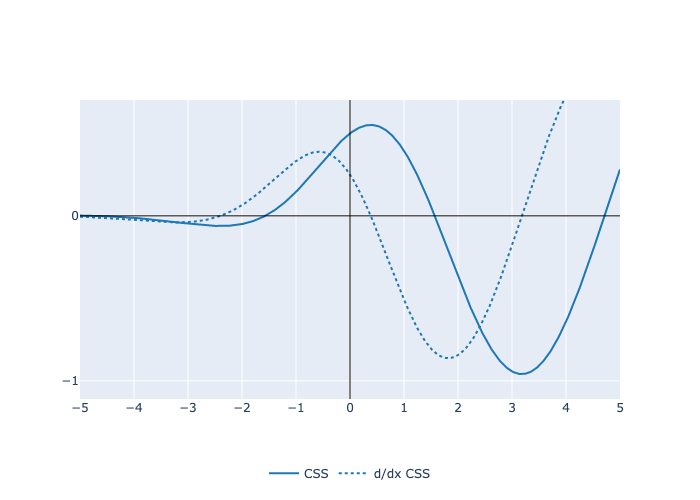
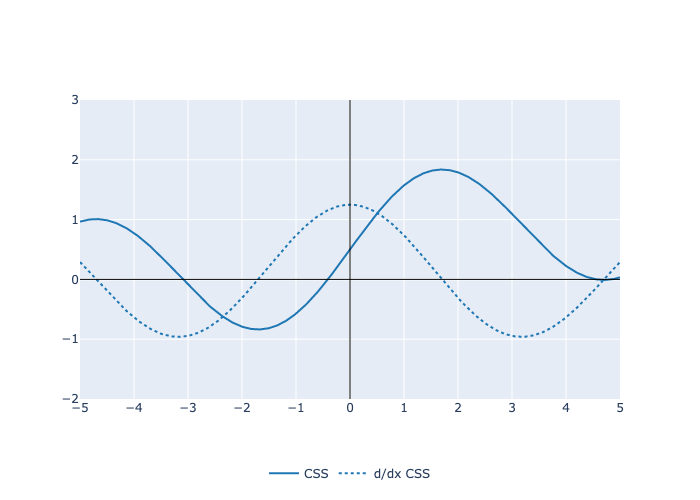
fix: align Sincos, CSS, Expcos with paper definitions
Sincos: a*sin(bx)+c*cos(dx) with learnable a,b,c,d
CSS: a*sin(bx)+c*sigmoid(dx) with learnable a,b,c,d
Expcos: exp(-ax^2)*cos(bx) with learnable a,b

Update tests and regenerate plots for all three.

diff --git a/torch_activation/classical/learnable.py b/torch_activation/classical/learnable.py
@@ -593,7 +593,15 @@ class Sincos(BaseActivation):
     r"""
     Applies the Sincos activation function:
 
-    :math:`\text{Sincos}(x) = \sin(x) + \cos(x)`
+    :math:`\text{Sincos}(x) = a \sin(bx) + c \cos(dx)`
+
+    where :math:`a`, :math:`b`, :math:`c`, :math:`d` are learnable parameters.
+
+    Args:
+        a (float, optional): Scale for sine term. Default: ``1.0``
+        b (float, optional): Frequency for sine term. Default: ``1.0``
+        c (float, optional): Scale for cosine term. Default: ``1.0``
+        d (float, optional): Frequency for cosine term. Default: ``1.0``
 
     Shape:
         - Input: :math:`(*)`, where :math:`*` means any number of dimensions.
@@ -608,13 +616,21 @@ class Sincos(BaseActivation):
         >>> m = torch_activation.Sincos()
         >>> x = torch.randn(2)
         >>> output = m(x)
+
+        >>> m = torch_activation.Sincos(a=0.5, b=2.0, c=0.5, d=2.0)
+        >>> x = torch.randn(2)
+        >>> output = m(x)
     """
 
-    def __init__(self, **kwargs):
+    def __init__(self, a: float = 1.0, b: float = 1.0, c: float = 1.0, d: float = 1.0, **kwargs):
         super().__init__(**kwargs)
+        self.a = nn.Parameter(torch.tensor(a))
+        self.b = nn.Parameter(torch.tensor(b))
+        self.c = nn.Parameter(torch.tensor(c))
+        self.d = nn.Parameter(torch.tensor(d))
 
     def _forward(self, x) -> Tensor:
-        return torch.sin(x) + torch.cos(x)
+        return self.a * torch.sin(self.b * x) + self.c * torch.cos(self.d * x)
 
 
 @register_activation
@@ -622,9 +638,16 @@ class CSS(BaseActivation):
     r"""
     Applies the Cosine-Sigmoid Shift (CSS) activation function:
 
-    :math:`\text{CSS}(x) = \sigma(x) \cdot \cos(x)`
+    :math:`\text{CSS}(x) = a \sin(bx) + c \sigma(dx)`
 
-    where :math:`\sigma(x)` is the sigmoid function.
+    where :math:`\sigma` is the sigmoid function and :math:`a`, :math:`b`, :math:`c`, :math:`d`
+    are learnable parameters.
+
+    Args:
+        a (float, optional): Scale for sine term. Default: ``1.0``
+        b (float, optional): Frequency for sine term. Default: ``1.0``
+        c (float, optional): Scale for sigmoid term. Default: ``1.0``
+        d (float, optional): Scale for sigmoid input. Default: ``1.0``
 
     Shape:
         - Input: :math:`(*)`, where :math:`*` means any number of dimensions.
@@ -639,13 +662,21 @@ class CSS(BaseActivation):
         >>> m = torch_activation.CSS()
         >>> x = torch.randn(2)
         >>> output = m(x)
+
+        >>> m = torch_activation.CSS(a=2.0, b=1.0, c=1.0, d=0.5)
+        >>> x = torch.randn(2)
+        >>> output = m(x)
     """
 
-    def __init__(self, **kwargs):
+    def __init__(self, a: float = 1.0, b: float = 1.0, c: float = 1.0, d: float = 1.0, **kwargs):
         super().__init__(**kwargs)
+        self.a = nn.Parameter(torch.tensor(a))
+        self.b = nn.Parameter(torch.tensor(b))
+        self.c = nn.Parameter(torch.tensor(c))
+        self.d = nn.Parameter(torch.tensor(d))
 
     def _forward(self, x) -> Tensor:
-        return torch.sigmoid(x) * torch.cos(x)
+        return self.a * torch.sin(self.b * x) + self.c * torch.sigmoid(self.d * x)
 
 
 @register_activation
@@ -686,7 +717,13 @@ class Expcos(BaseActivation):
     r"""
     Applies the Expcos activation function:
 
-    :math:`\text{Expcos}(x) = \exp(\cos(x))`
+    :math:`\text{Expcos}(x) = \exp(-ax^2) \cos(bx)`
+
+    where :math:`a` and :math:`b` are learnable parameters.
+
+    Args:
+        a (float, optional): Decay rate. Default: ``1.0``
+        b (float, optional): Frequency. Default: ``1.0``
 
     Shape:
         - Input: :math:`(*)`, where :math:`*` means any number of dimensions.
@@ -701,13 +738,19 @@ class Expcos(BaseActivation):
         >>> m = torch_activation.Expcos()
         >>> x = torch.randn(2)
         >>> output = m(x)
+
+        >>> m = torch_activation.Expcos(a=0.5, b=2.0)
+        >>> x = torch.randn(2)
+        >>> output = m(x)
     """
 
-    def __init__(self, **kwargs):
+    def __init__(self, a: float = 1.0, b: float = 1.0, **kwargs):
         super().__init__(**kwargs)
+        self.a = nn.Parameter(torch.tensor(a))
+        self.b = nn.Parameter(torch.tensor(b))
 
     def _forward(self, x) -> Tensor:
-        return torch.exp(torch.cos(x))
+        return torch.exp(-self.a * x**2) * torch.cos(self.b * x)
 
 
 @register_activation

diff --git a/test/test_expcos.py b/test/test_expcos.py
@@ -10,7 +10,7 @@ ACTIVATION_NAME = "Expcos"
 
 
 def scalar_ref(x: float) -> float:
-    return math.exp(math.cos(x))
+    return math.exp(-x * x) * math.cos(x)
 
 
 def _get_module(**kwargs):
@@ -54,10 +54,6 @@ class TestNumerical:
         out = m(x)
         assert torch.allclose(out, torch.full((8,), scalar_ref(0.0)), atol=1e-6)
 
-    def test_always_positive(self):
-        m = _get_module()
-        x = torch.randn(100)
-        assert (m(x) > 0).all()
 
 
 class TestGradients:

diff --git a/test/test_css.py b/test/test_css.py
@@ -10,7 +10,7 @@ ACTIVATION_NAME = "CSS"
 
 
 def scalar_ref(x: float) -> float:
-    return (1.0 / (1.0 + math.exp(-x))) * math.cos(x)
+    return math.sin(x) + 1.0 / (1.0 + math.exp(-x))
 
 
 def _get_module(**kwargs):
